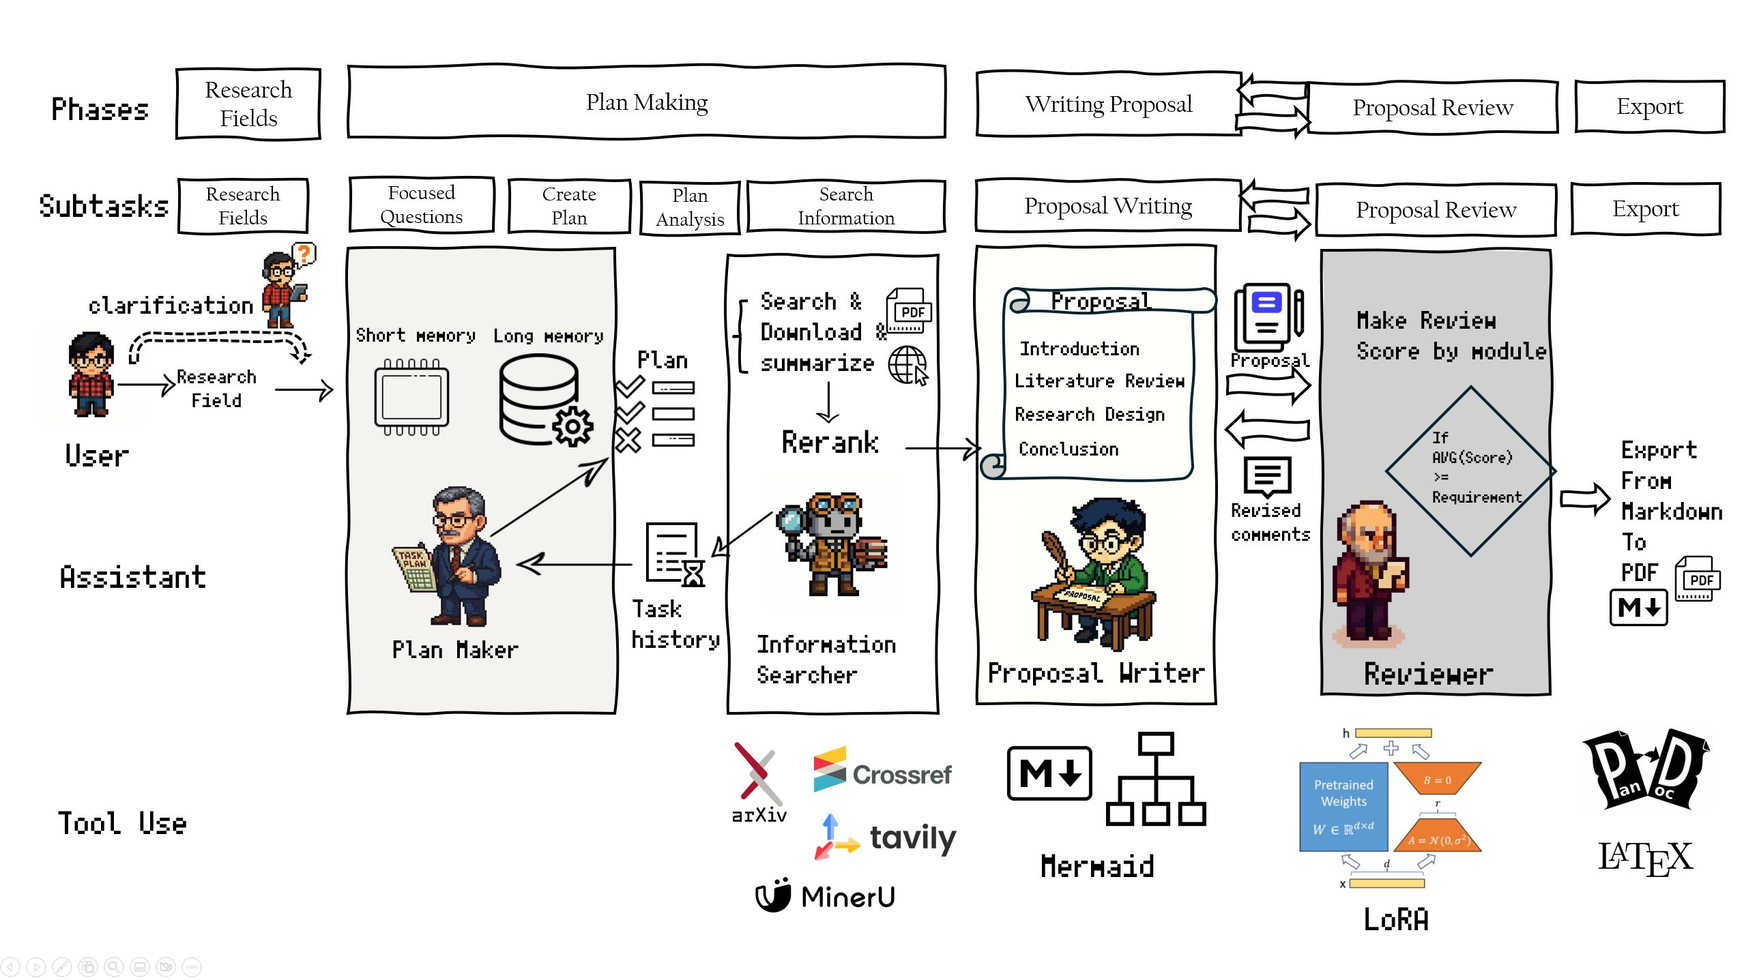
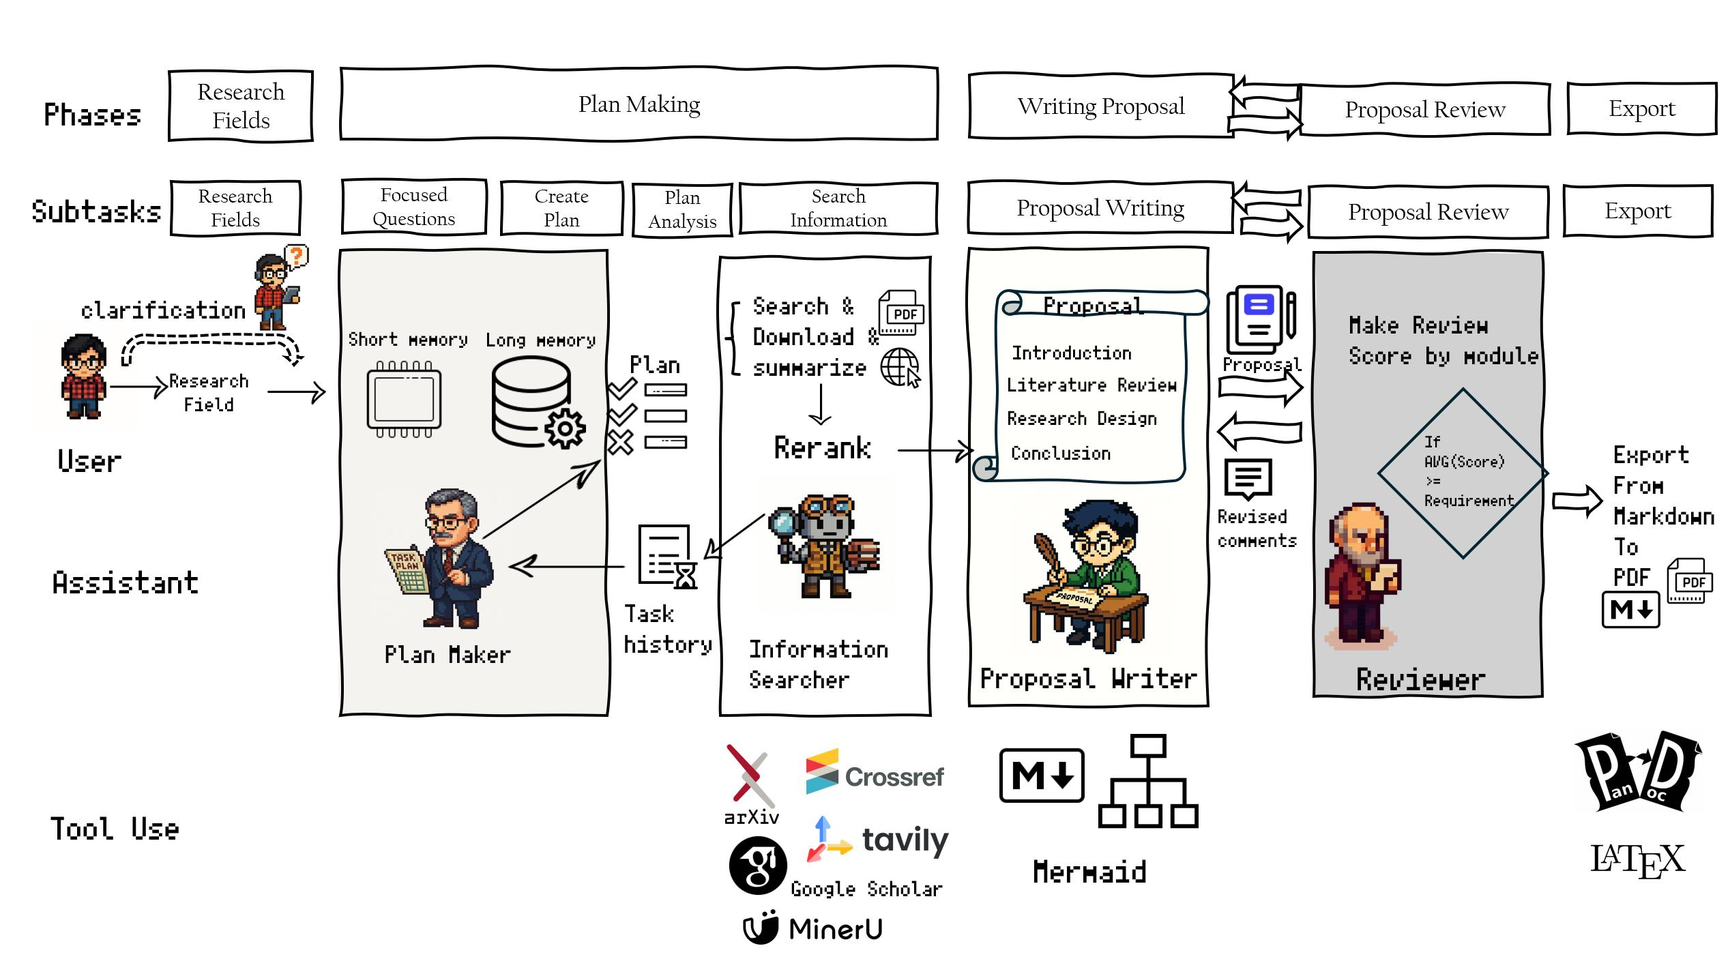
Update README.md

diff --git a/README.md b/README.md
@@ -8,164 +8,159 @@
 
 # ProposalAgent
 A Multi-Agent System for End-to-End Research Proposal Drafting and Optimization
-# Team Member
+## 👤 团队成员
+
 郑锐、谢秋云、樊彬峰、禚宣伟、吴业阳
-
-----
-# 初步计划
-## 项目简介
-Proposal‑Agent 是一套用于 **自动生成并迭代优化科研计划书（Research Proposal）** 的多智能体系统。  
-用户仅需输入 **研究领域 / 方向**，系统即会：
-
-1. 检索最新文献与公开数据；
-2. 产出包含 **研究背景、目标、方法、时间规划、预期成果** 等要素的完整 Proposal（PDF 形式导出）；
-3. 通过 Reviewer‑Agent 按多维指标打分并给出改进意见，自动迭代直至平均得分达到设定阈值。
-
-## Feature
-- 🔍 引入多源学术数据库检索（ArXiv / IEEE Xplore）
-- 🗣 支持通过澄清式反问来精确聚焦研究方向
-- 🧠 内置长短期记忆机制，实现跨会话学习与上下文压缩
-- 🤖 已实现Reviewer-Agent评审系统，支持多维度评分与修订建议
-- 🌐 支持多语言 Proposal 输出
-
-<p align="center">
-  <img src="media/Workflow.jpg" alt="ProposalAgent Workflow" style="max-width: 90%; height: auto;" />
-</p>
-
-# Requirements
-- `python>=3.10`
-- `uv`: Install uv as python project manager from [here](https://github.com/astral-sh/uv)
-- `xelatex`: To export pdf from markdown
-- `mermaid-js/mermaid-cli` : Draw Gantt graph; use `mmdc --version` to show
-
-# Installation
-1. Clone the repository
-```bash
-git clone https://github.com/Rayzheng227/ProposalAgent.git
-cd ProposalAgent
-```
-2. Sync virtual enviroment by uv
-```
-uv sync
-```
-此命令会自动安装 `pyproject.toml` 中定义的所有依赖，包括新增的 `langchain-chroma` 和 `sentence-transformers`。
-
-3. 运行简单的DEMO
-```
-uv run agent.py
-```
-4. 若后续开发有增加所需的库等操作，执行`uv add xxx`，如`uv add numpy`，会自动在`pyproject.toml`中以及`.venv`中增加相关库
-
-5. 在环境变量(.env)中，导入自己的DASHSCOPE_API_KEY和TAVILY_API_KEY。
-
-# 开发日志
-(日后有新的功能更新啥的可以写到这里)
-
-
-
-- 2025.6.8 : 增加了新的反问功能，现在针对提出的简单的研究方向/领域，Agent能够对研究的方向和领域提出相关问题。因为发现到在之前的demo中，Agent提出的规划有些既要又要了；加入了反问后，Agent能够**更好的去理解用户的意图**。
-- 2025.6.9 : Merging from wyy: 后端接口以及对tools的优化
-
-- 2025.6.9 ：通过**短期记忆（会话摘要）** 和 **长期记忆（向量数据库）** 机制实现了记忆管理。
-
-- 2025.6.10: 实现了完整的ReviewerAgent评审系统，包括：
-  - 多维度评分标准（结构完整性、学术严谨性、方法适当性等）
-  - 客观定量分析（章节比例、引用密度等）
-  - 评审报告生成（优势、不足、改进建议）
-  - review.py和improve.py脚本提供评审和改进流程
-
-
-- 2025.6.9 : 增加了检索后优化，重排序技术(RAG)
-
-- 2025.6.12: 加入了导出pdf的实现，通过转换成latex再编译实现；Latex的模板位于exporter/文件夹下；
-运行`uv run export2.py`能够导出最近的一篇文件（存在output文件夹下的）
-
-----
-
-# 写给队友看的一些临时的想法
-
-1. pdf/其他格式导出的部分 ————————————>str(由md组成)
-2. **加入Reviewer相关部分**————接收人类标注的结果(结构、内容)
-3. 前端webui,可参考
-4. (maybe)加入中间的反思
-5. 加入其他搜索源
-
-## How to use it?
-【2025.6.4】 重构了一下代码，让他更模块化了；
-- `/backend/src/agent/graph.py` ：这个部分是整体的Langgraph框架
-- `/backend/src/agent/state.py` ：这一部分存储框架所需要的属性，如：在框架中增加了中间输出，则也需要到state中增加
-- `/backend/src/agent/tools.py` : 这一部分存储的是Proposal Agent本身需要去使用的工具，若工具有变动，记得修改同目录下的tools.json
-- `agent.py` ： 一个简单的DEMO，演示如何去通过ProposalAgent生成一个完整的Proposal
-- `output` : 存储导出的markdown文件
-- `Papers` : 存储Agent中途从Arxiv下载的论文，在概括文章时需要
-- `backend` ：整体存储整个后端的内容
-- `frontend` : 包含前端信息
-
-
-比如说，想要输出pdf的结果更好，如：**针对Proposal的时间线**，写了一个绘图的可视化工具，可以先通过`@tools`装饰器在`tools.py`中加入新函数，再在需要用到的图的节点中加入相关说明，即可让Agent在对应阶段能够去调用该工具。
-
-## 目前已知的一些不足：
-1. ***搜索策略、搜索源问题***：Arxiv的搜索策略有一些不足，我运行了几次发现老是搜索到同一批文件(明明搜索的关键词不一样)；或许可以：**改善搜索策略**、**增加搜索源**(并不是所有论文在Arxiv上都有对应预印本；我之前加入了一个CrossRef，在网上看到说是他不需要注册API，但是我自己用的时候偶尔会出错)；
-2.***输出问题***：*最终输出pdf的部分有问题(我已经写了一个export.py)，目标是将markdown文件转化为pdf，但是在中文显示、整体布局等上面有问题，可以整体去修改，目标是：读取`output`文件夹下的md文件，转化为pdf(或是其他更好阅读的格式)。这一方面可以参考`WeasyPrint`这一个库，据说是能将html文件转化为pdf，效果会更好看；或者说你有其他办法能够最终生成一个`更好阅读的格式`（word、pdf、ppt等都可以）
-3. ***可视化问题***：如上所述，整体最后的输出结果缺乏一些图片等，这会显得我们的Proposal有点小小的尴尬，也许可以加入一些其他的内容(反正就是让整体Proposal更好看一点)
-4. ***前端相关***构建前端，即WebUI相关，可以参考:[这里](https://github.com/google-gemini/gemini-fullstack-langgraph-quickstart.git)，这个仓库的frontend部分提供了一个我看着感觉很高级的webUI，所有的中间输出相关，基本上都在`Graph.py`中，中间输出内容基本上以`logging.info`为主，可以捕获这些输出去做前端。
-5. ~~***Reviewer—强化输出***按照我们讨论的，可以加入一个Reviewer，去对我们生成的Proposal进行评分，然后返回给ProposalAgent进行改善~~ **已实现ReviewerAgent功能**：已完成独立的ReviewerAgent模块，能够对研究计划书进行多维度评分、分析优缺点并提供具体修订建议。通过review.py和improve.py脚本实现了评审->改进流程。目前已支持完整研究计划书评审和针对特定章节的评审功能。
-6. ***工作量上***(或者说，涉及的知识点范围），若要涉及到更多的现有技术，可以考虑**MCP**,**RAG**；其中MCP相关的内容是作为tools的一部分；比如说：如果有对应的生成、修改最终格式的MCP，那应该是挺不错的； **RAG**【已优化】上，我思考了一下可以加入到数据库的内容，比如说,我前面提到的**搜索策略**问题，我发现，在有些情况下，Agent对专业词汇的理解不够，而且有些方面的论文，**可能在标题、关键词中没有相关的内容**，但整体的文章是关于这个方向的，这种情况下我们的搜索策略就无法搜索到对应的关键词。
-7. ***反思功能***：这个可能我后面有时间自己会增加，目前的整体规划是：若网络上、Arxiv等搜索到的相关内容不超过3个，则重新搜索；但是这个方法是显然不足的，我想的一个方式是：让LLM去判断，目前收集到的资料**是否足以他了解完整的行业趋势**，将最终结果限定为一个Bool型，若为真，则截止搜索工作；若不足，则继续搜索工作。或者也许你能想到更好的策略。
-
-8. ***记忆管理问题***：【已解决】目前没有提供一些记忆管理策略，这样会造成每次的token数很高，这在成本上是一个挑战；也许可以考虑去优化这方面的策略
-   - **解决方案**：已通过**短期记忆（会话摘要）** 和 **长期记忆（向量数据库）** 机制解决。
-   - **A、短期记忆（会话摘要）**
-   - **问题**：在处理复杂的研究任务时，Agent 的执行步骤会越来越多，导致传递给 LLM 的上下文急剧膨胀，这不仅会超出模型的 Token 限制，还会增加推理成本。 
-   - **解决方案**：我们引入了一个**摘要节点（Summarization Node）**。在 Agent 的执行循环中，每隔几个步骤（当前设置为3步），它就会自动"回顾"最近的执行历史，并生成一段高度浓缩的摘要。在后续的规划中，Agent 将使用这段摘要而非完整的历史记录，从而在保持关键信息的同时，极大地压缩了上下文长度。
-
-   - **2. 长期记忆（跨会话知识库）**
-
-   - **问题**：传统的 Agent 是"健忘"的，每次处理新任务都是从零开始，无法从过去的成功或失败中学习。
-   - **解决方案**：我们集成了 **ChromaDB 向量数据库** 作为 Agent 的长期记忆。
-   - **知识存储**：每当一个研究计划成功生成后，系统会提取其核心信息（如研究问题、关键结论、研究方法等），将其向量化并存入 `chroma_db` 文件夹内的数据库中。
-   - **知识检索**：当用户提出一个新的研究问题时，Agent 会首先在向量数据库中进行相似度搜索，查找并"回忆"起过去处理过的最相关的项目。这些历史知识将作为重要参考，帮助 Agent 更好地规划当前任务，从而实现跨会话的学习和进化。
-
-
-1. ***反问功能***：【已解决】这是我自己今天在用ChatGPT的时候发现的，在DeepResearch时，会进行反问，完善提问的细节，对于我们这个任务来说，输入的只是一个小小的领域，也许可以加入一个Agent反问用户，得到一些具体的细节；
-   - **解决方案**：已在 `clarify_research_focus_node` 节点中实现。Agent 会在规划前，先生成澄清式问题，等待用户输入后再继续。
-
-## 开发注意事项
-
-希望最好能够每个功能部分pull新的分支，以免影响整体；
-
-
 ---
 
-希望能够完善一下上面所述的不足!!! 
+## 项目简介
 
+用户仅需输入研究领域，系统便会：
 
-## reviewer使用
+1.  **智能检索**：深度检索多源学术数据库（如 ArXiv, CrossRef, Google Scholar）和网络内容。
+2.  **分步撰写**：逐步生成包含 **研究背景、目标、方法、时间规划、预期成果** 等标准章节的计划书。
+3.  **可视化集成**：自动集成 **Mermaid 图表**（如甘特图），使时间规划等内容一目了然。
+4.  **自动导出**：将最终报告导出为可阅读的 Markdown 和 **PDF 形式**。
+5.  **智能评审与迭代**：通过 **Reviewer-Agent** 对生成的计划书进行多维度评审，给出评分和详细改进意见，并驱动 Proposal-Agent 进行**自动迭代优化**，直至达到设定的质量阈值。
+
+## ✨ 主要特性
+
+*   **🔍 多源智能检索与内容收集**：支持从 ArXiv、CrossRef、Google Scholar 等学术数据库和网络内容中高效检索并收集相关文献及信息。
+*   **🗣 澄清式反问机制**：支持通过与用户进行澄清性对话，精确聚焦研究方向和用户意图，提升规划准确性。
+*   **🧠 智能记忆管理**：
+    *   **短期记忆（会话摘要）**：在执行过程中定期对历史步骤进行摘要，有效压缩上下文长度，降低 LLM 调用成本。
+    *   **长期记忆（向量数据库）**：集成 ChromaDB 作为知识库，存储已完成研究计划的核心洞察，实现跨会话学习和知识复用。
+*   **🔄 文献智能重排序（RAG 优化）**：通过 LLM 对检索到的文献进行相关性评分和重排序，确保最相关文献被优先处理和引用。
+*   **🤖 强大的 Reviewer-Agent 评审系统**：
+    *   提供多维度评分标准（如结构完整性、学术严谨性、方法适当性）。
+    *   支持客观定量分析（章节比例、引用密度等）。
+    *   生成详细评审报告，包含优势、不足及具体修订建议。
+*   **♻ 自动迭代优化流程**：根据 Reviewer-Agent 的评审反馈，Proposal-Agent 能自动调整和改进研究计划书，直至满足质量要求。
+*   **📊 Mermaid 图表集成**：自动将 Mermaid 代码块转换为图片并嵌入到最终报告中，支持项目甘特图等可视化内容。
+*   **📄 自动化报告导出**：将生成的计划书内容转换为结构化的 Markdown 文件，并通过 **xelatex** 编译为高质量的 PDF 文档，支持中文显示。
+*   **🌐 多语言支持**：支持生成中文研究计划书。
+
+## 🚀 快速开始
+
+### 1. 环境要求
+
+*   `python>=3.10`
+*   `uv`: Python 项目管理器，请从 [uv GitHub](https://github.com/astral-sh/uv) 安装。
+*   `xelatex`: 用于将 LaTeX 文件编译为 PDF。
+    *   Ubuntu/Debian: `sudo apt-get install texlive-full`
+    *   CentOS/RHEL: `sudo yum install texlive-scheme-full`
+*   `mermaid-js/mermaid-cli` (`mmdc`): 用于将 Mermaid 代码转换为图片。
+    *   安装 Node.js (如果未安装)。
+    *   使用 npm 安装：`npm install -g @mermaid-js/mermaid-cli`
+    *   您可以通过 `mmdc --version` 命令检查是否安装成功。
+
+### 2. 安装步骤
+
+1.  **克隆仓库**：
+    ```bash
+    git clone https://github.com/Rayzheng227/ProposalAgent.git
+    cd ProposalAgent
+    ```
+2.  **同步虚拟环境**：
+    ```bash
+    uv sync
+    ```
+    此命令会自动安装 `pyproject.toml` 中定义的所有依赖。
+3.  **配置环境变量**：在项目根目录下创建 `.env` 文件，并导入您的 API 密钥：
+    ```
+    DASHSCOPE_API_KEY="your_dashscope_api_key"
+    TAVILY_API_KEY="your_tavily_api_key"
+    ```
+
+### 3. 导出示例
+
+您可以通过 `export2.py` 脚本来生成研究计划书并导出 PDF：
+
+```bash
+# 生成最新的研究计划书并导出PDF
+uv run export2.py
+
+# 或者，指定一个已存在的Markdown文件ID来处理（例如：Research_Proposal_1mivmw501h.md 的ID是 1mivmw501h）
+uv run export2.py 1mivmw501h
+
+# 您也可以指定提案ID（proposal_id）以便在前端追踪进度
+uv run export2.py <your_markdown_file_id> <your_proposal_id>
 ```
-### 1. 使用ReviewerAgent评审已有研究计划
-uv run review.py --file <.md文件路径> --field <想询问的领域问题>
 
-### 2. 使用评审建议来重新生成一个proposal
-uv run improve.py --review <.json文件路径> --original <.md原始文件路径>
-```
+生成的报告（Markdown 和 PDF）以及 Mermaid 图片将保存在 `output/` 和 `exporter/pdf_output/` 目录下。
+
+## 📁 项目结构
+
+*   `/backend/src/agent/graph.py`：LangGraph 框架的整体实现，定义了 Agent 的工作流和节点。
+*   `/backend/src/agent/state.py`：存储 LangGraph 框架所需的状态属性，用于在不同节点间传递信息。
+*   `/backend/src/agent/tools.py`：定义了 Proposal Agent 可调用的外部工具（如搜索工具、PDF 摘要工具、甘特图生成工具）。`tools.json` 存储工具描述。
+*   `/backend/src/reviewer/`：包含 ReviewerAgent 模块的实现，用于评审和生成修订指导。
+*   `/exporter/`：包含 LaTeX 模板 (`main.tex`) 和 PDF 导出相关的类与配置。
+*   `/output/`：存储 Agent 生成的 Markdown 格式研究计划书和参考文献 JSON 文件。
+*   `/exporter/pdf_output/`：编译生成的 PDF 文件和 Mermaid 图表图片 (`figures/mermaid_images/`) 存放目录。
+*   `frontend/`：包含前端 Web UI 的相关代码。
+*   `/backend/`:包含
+
+## 🛠 核心模块与工作流
+
+ProposalAgent 的核心工作流基于 **LangGraph** 构建，采用模块化设计，主要包含以下关键节点：
+
+1.  **澄清研究焦点**：与用户交互，通过提问明确研究领域。
+2.  **制定总体计划**：根据研究领域和澄清结果，生成一个高层次的研究计划。
+3.  **分析计划与执行**：将总体计划分解为具体的工具执行步骤（如搜索论文、内容摘要），并逐步执行。
+4.  **记忆管理**：
+    *   **短期记忆摘要**：定期回顾执行历史并生成摘要，优化上下文。
+    *   **长期记忆存储**：将最终研究成果存入 ChromaDB，支持跨会话知识复用。
+5.  **章节撰写**：Agent 根据收集到的信息和规划，依次撰写引言、文献综述、研究设计、结论等章节。
+6.  **参考文献管理**：自动从收集的数据中提取、编号和格式化参考文献。
+7.  **报告生成与导出**：将所有章节内容整合为完整的 Markdown 报告，并编译为 PDF。
+8.  **智能评审与改进循环**：
+    *   **评审**：Reviewer-Agent 对生成的报告进行评分和反馈。
+    *   **生成修订指导**：将评审结果转化为具体的改进指令。
+    *   **应用改进**：Proposal-Agent 根据修订指导重新生成并优化报告，形成迭代改进闭环。
+
+## 🚧 已知问题与未来展望
+
+### 当前挑战
+
+1.  **搜索策略与内容全面性**：
+    *   现有 ArXiv 搜索可能存在局限，有时搜索结果重复或未能捕获非标题/关键词相关但内容相关的论文。
+    *   考虑引入更复杂的搜索策略（如基于摘要或全文语义搜索），并进一步扩展高质量的搜索源。
+2.  **细粒度修订的实现**：
+    *   目前 Agent 的改进机制更多是"重新生成"而非"定向修订"，导致难以对报告的特定章节进行精准的、细节层次的修改。
+    *   未来需要探索更精细的文本修改方法，例如基于 Diff 的内容对比与修正，以及将章节级别的修订指导更有效地传递给具体的撰写节点。
+3.  **版本比较与评估**：缺乏直观有效的方式来比较原始版本和修订版本之间的质量差异和改进效果。
+4.  **可视化与美观性**：虽然已集成 Mermaid 图表，但整体报告的视觉美观度和布局仍有提升空间。可以考虑集成更强大的渲染库（如基于 HTML/CSS 的 `WeasyPrint`）或引入更多图表类型。
+
+### 未来展望
+
+*   **更智能的搜索与数据集成**：实现更高级的 RAG (Retrieval Augmented Generation) 策略，优化文献检索的深度和广度。
+*   **强化中间过程反思**：引入 Agent 在执行过程中的自我反思机制，使其能判断当前信息是否充足，并自主调整策略。
+*   **用户交互体验优化**：在前端实现更流畅的任务进度展示、中间结果可视化以及更灵活的用户介入/调整功能。
+*   **更多格式导出**：探索支持导出为 Word、PPT 等更多常用文档格式。
+
+## 🤝 贡献
+
+欢迎对本项目提出建议或贡献代码。请在提交 Pull Request 前，考虑为新的功能创建独立的分支。
+
+## 📜 开发日志
+
+*   **2025.6.8**：增加了新的反问功能，Agent 能够对研究方向提出澄清问题，更好地理解用户意图。
+*   **2025.6.9**：实现了基于**短期记忆（会话摘要）** 和 **长期记忆（向量数据库 ChromaDB）** 的记忆管理机制，有效降低了上下文 Token 消耗并实现了跨会话学习。
+*   **2025.6.9**：后端接口和工具优化。增加了检索后优化，实现**重排序技术 (RAG)**，提升文献相关性。
+*   **2025.6.10**：实现了完整的 **ReviewerAgent 评审系统**，支持多维度评分、客观定量分析（章节比例、引用密度）、优势/不足识别和评审报告生成。`review.py` 和 `improve.py` 脚本提供评审和改进流程。
+*   **2025.6.12**：加入了 PDF 导出实现，通过将 Markdown 转换为 LaTeX 再编译的方式实现。LaTeX 模板位于 `exporter/` 文件夹下。
 
 
-## 现有问题
-1. 每个章节生成的内容好像并接收修订指南参数的设计，导致了信息孤岛问题
-2. 没有机制将具体的修订指导传达给需要改进的节点，比如write_introduction_node、write_literature_review_node等节点并不知道需要针对哪些具体问题进行改进。
-3. 虽然在improve.py里会提取原始结果章节，但ProposalAgent无法访问这些内容进行比较和修改。
-4. 没有机制来确保修订建议是否被真正执行。
-5. 如何来比较原始和修订版本的好坏呢？
 
-**改进进展**：已完成了基本的评审反馈流程，但需要进一步改进ProposalAgent架构，使其能够接收和处理章节级别的修订指导。当前的修订效果有限，主要由于ProposalAgent的设计是"重新生成"而非"定向修订"。
 
-## Screep已实现前端展示部分：
-- 相关源码位于/frontend/src/下
-- 运行方法：
-  - 1.机器上面安装node.js
-  - 2.进入frontend目录，执行`npm i`下载相关依赖
-  - 3.执行`npm run dev`运行网页展示
-- 前端展示端口3000，后端8810
-- 目前已实现第二版，集成了反思模块与下载模块，但是后端并没有集成pdf下载功能，之后再说
-- 关于页面的问题，禁止在任务执行时刷新页面，否则会出现不可控问题（改记录完全失效）
+## 🌐 前端展示部分
+
+*   **相关源码**：位于 `/frontend/src/`
+*   **运行方法**：
+    1.  机器上安装 `Node.js`。
+    2.  进入 `frontend` 目录，执行 `npm i` 下载相关依赖。
+    3.  执行 `npm run dev` 运行网页展示。
+*   **端口说明**：前端展示端口 `3000`，后端端口 `8810`。
+*   **注意**：目前已实现第二版，集成了反思模块与下载模块（PDF 下载功能需后端集成后支持）。**禁止在任务执行时刷新页面**，否则可能导致状态记录丢失。
 
